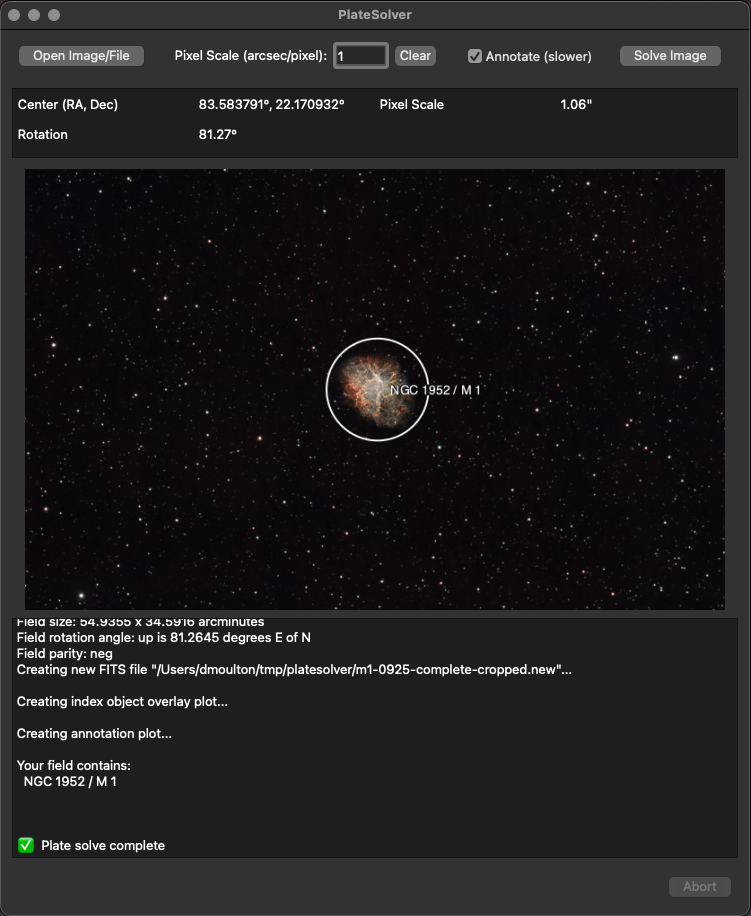
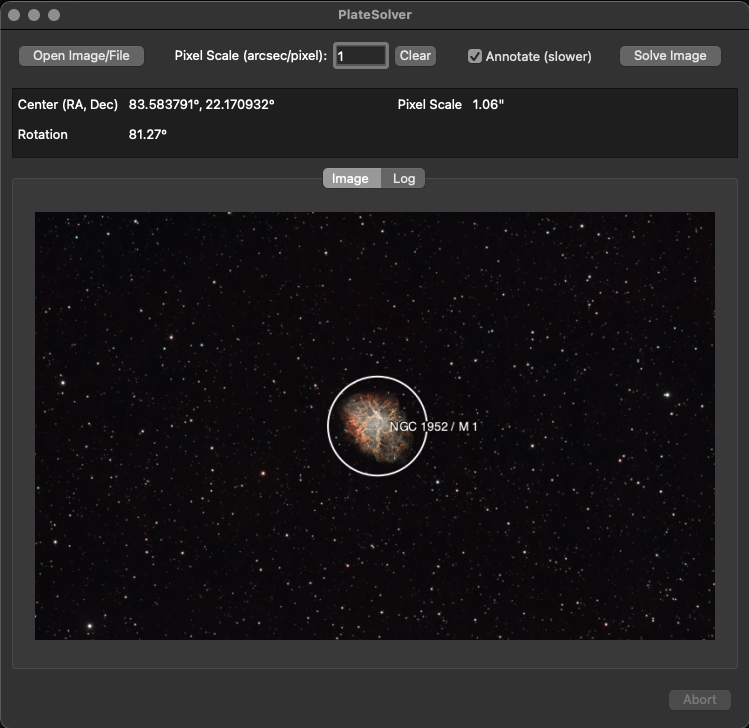
enable solve button after abort

Changed region(s): [[0.0, 0.0, 1.0, 1.0], [0.0, 0.0, 0.6756, 0.1511], [0.4299, 0.3626, 0.6449, 0.4835]]

diff --git a/platesolver.py b/platesolver.py
@@ -16,7 +16,14 @@ from astropy.io import fits
 from astropy.wcs import WCS
 from PIL import Image
 
+VERSION = '1.01'
+NAME = "Plate Solver"
+COPYRIGHT_YEAR = "2025"
+AUTHOR = "David Moulton"
+
 SOLVE_FIELD = 'solve-field'
+WINDOW_WIDTH = 750
+WINDOW_HEIGHT = 700
 
 COMMON_PATHS = [
     "/usr/bin", "/usr/local/bin", "/opt/homebrew/bin", "/opt/homebrew/sbin",
@@ -29,9 +36,6 @@ COMMON_PATHS = [
     r"C:\\ProgramData\\chocolatey\\bin",
     r"C:\\Program Files\\AstrometryNet\\bin",
 ]
-
-WINDOW_WIDTH = 750
-WINDOW_HEIGHT = 700
 
 def prepend_common_paths():
     old_path = os.environ.get("PATH", "")
@@ -208,9 +212,9 @@ class PlateSolveApp(QMainWindow):
 
     def show_about(self):
         QMessageBox.about(self, "About PlateSolver", 
-                        "PlateSolver v1.0\n\n"\
+                        f"{NAME} v{VERSION}\n\n"\
                         "A simple GUI for plate solving with Astrometry.net\n\n"\
-                        "Created by David Moulton\n\n"\
+                        f"© {COPYRIGHT_YEAR} {AUTHOR}\n\n"\
                         "https://github.com/dmoulton/plate-solver-gui")
 
     def open_file(self):
@@ -313,6 +317,7 @@ class PlateSolveApp(QMainWindow):
         if not (self.proc and self.proc.state() == QProcess.Running):
             return
         self.abort_btn.setEnabled(False)
+        self.solve_btn.setEnabled(True)
         self.output_text.append('❌ Aborting solve…')
         self.proc.finished.disconnect()
         QTimer.singleShot(0, self.proc.terminate)

diff --git a/README.md b/README.md
@@ -9,9 +9,8 @@ You must have a local functional astrometry.net install. If it is working comman
 Also
 
 ```sh
-pip install PyQt5 numpy astropy Pillow
+pip install PyQt5 numpy astropy Pillow pyinstaller
 ```
-
 
 ## Usage
 
